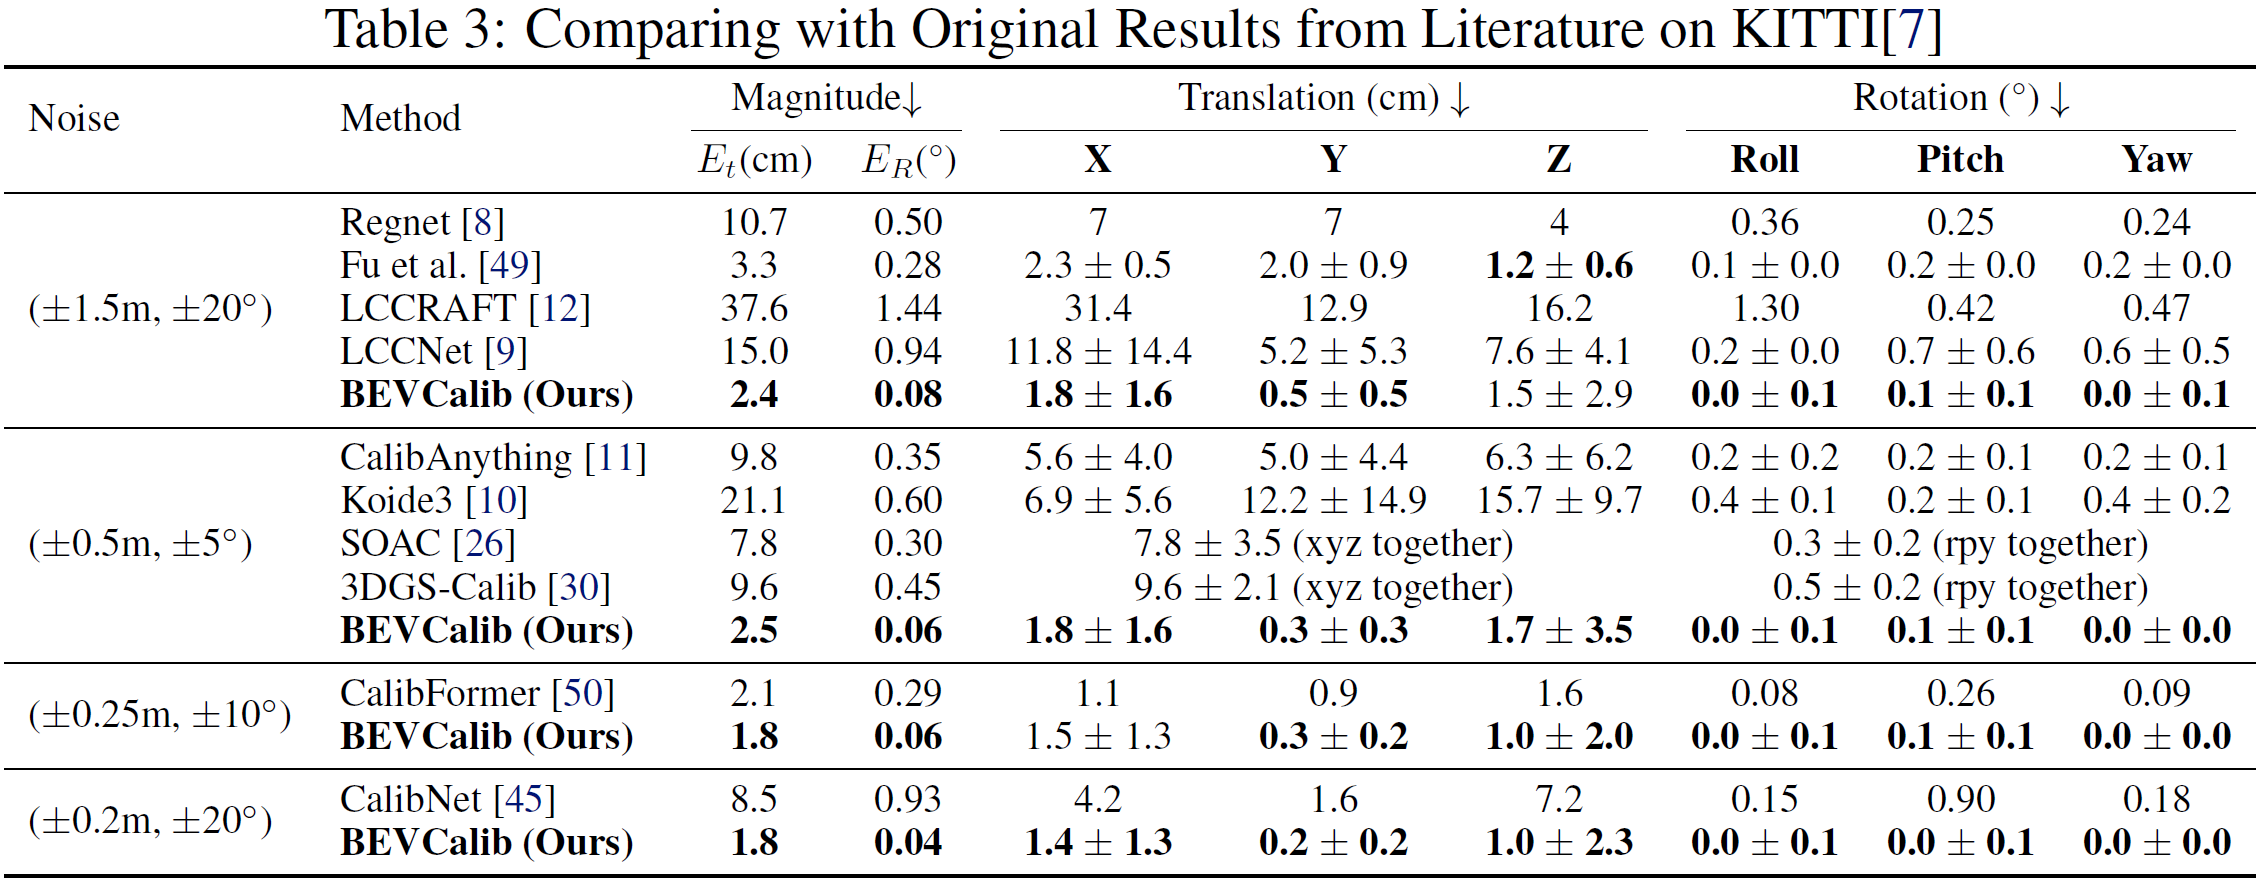
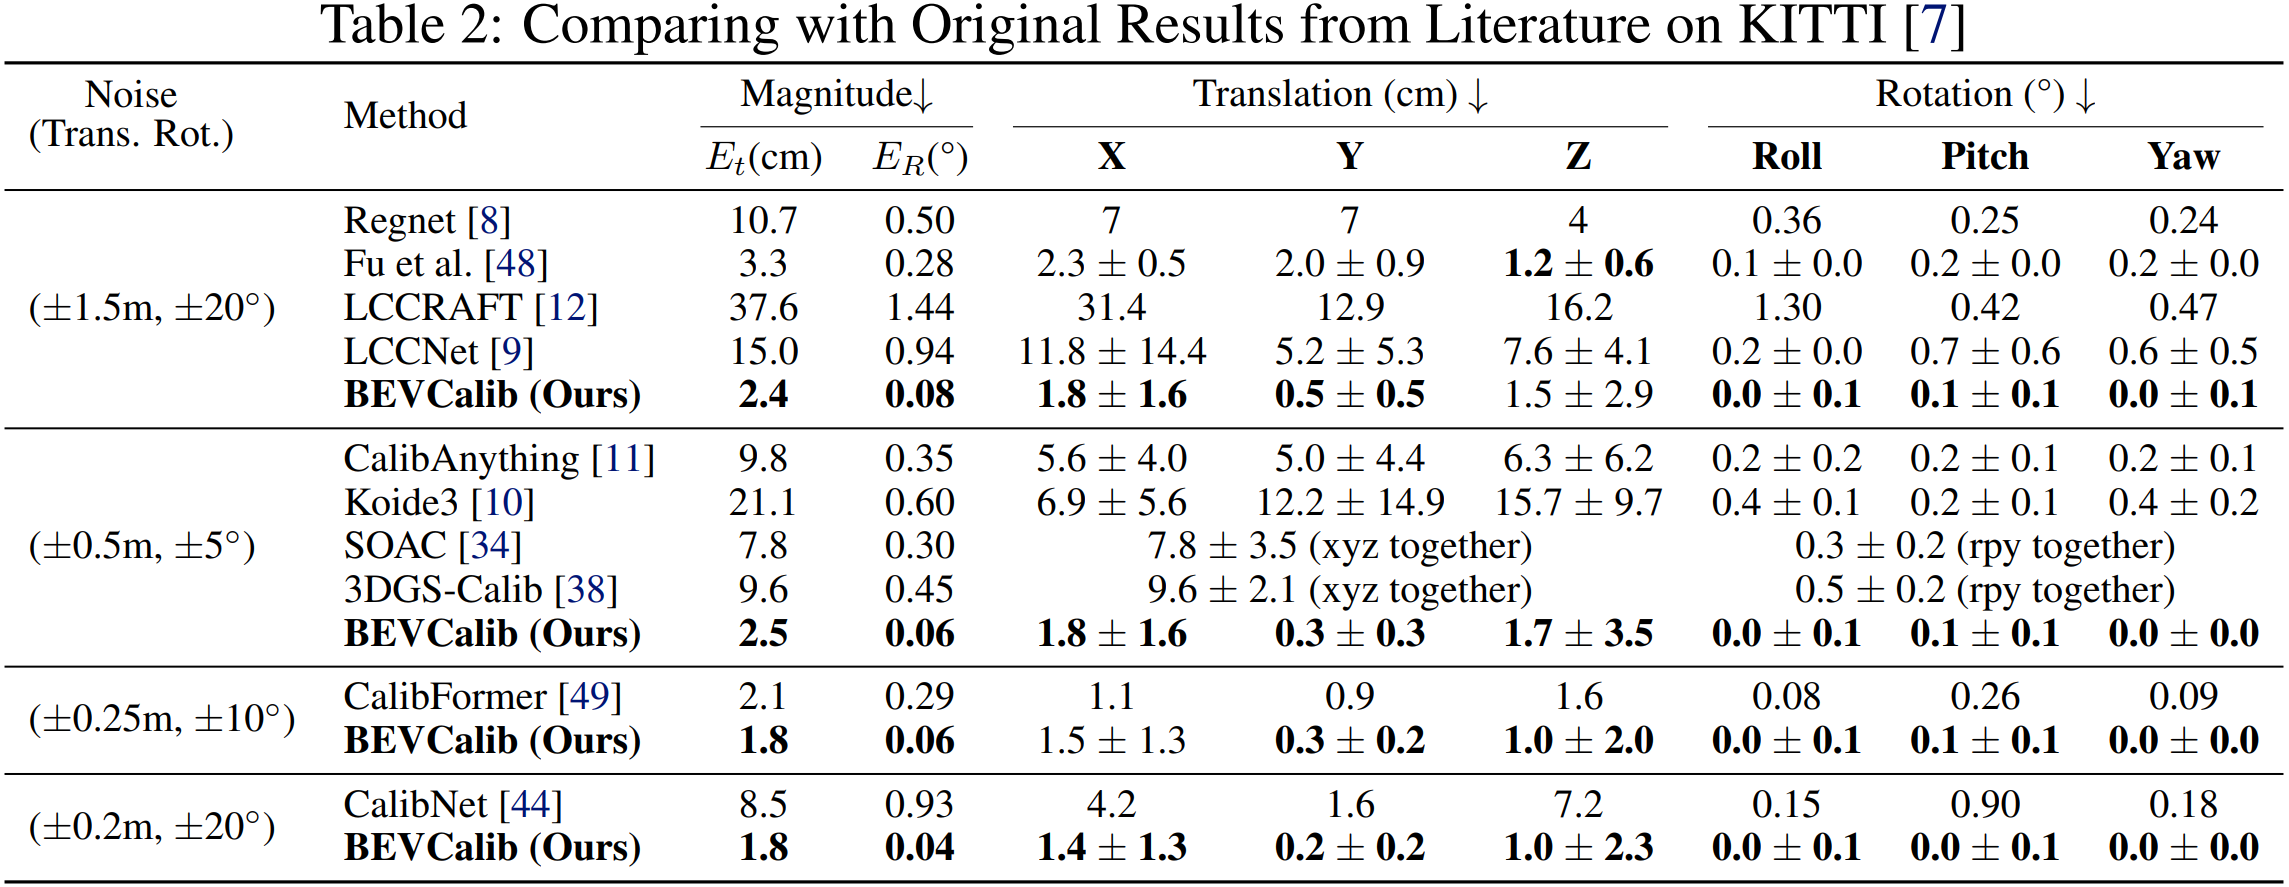
latest version sync with paper

diff --git a/index.html b/index.html
@@ -133,8 +133,8 @@
               termed <strong>BEVCALIB</strong>. To achieve this, we extract camera BEV features and LiDAR BEV features separately and fuse them into a shared BEV feature space. To fully 
               utilize the geometry information from the BEV feature, we introduce a novel feature selector to choose the most important feature in the transformation decoder, 
               which reduces memory consumption and enables efficient training. Extensive evaluations in various datasets demonstrate that BEVCALIB establishes a new state-of-the-art.
-              It improves the <strong><em>best open-source baseline</em></strong> by two orders of magnitude. Under various noise conditions, BEVCALIB also outperforms the 
-              <strong><em>best baseline in literature</em></strong> by an average of (47.08%, 82.32%) on KITTI dataset, and (78.17%, 68.29%) on Nuscenes dataset, in terms of (translation, rotation) respectively. 
+              Under various noise conditions, BEVCALIB outperforms the <strong><em>best baseline in literature</em></strong> by an average of (47.08%, 82.32%) on KITTI dataset, 
+              and (78.17%, 68.29%) on NuScenes dataset, in terms of (translation, rotation) respectively. In the open-source domain, it improves the <strong><em>best</em></strong> reproducible baseline by one order of magnitude.
             </p>
           </div>
         </div>
@@ -187,6 +187,32 @@
             <div class="column is-full-width">
                 <h2 class="title is-3">Experiments</h2>
 
+                <h3 class="title is-4">Comparasion with Original Results from Literature</h3>
+
+                <div class="content has-text-justified">
+                  <img src="static/images/kitti.png" />
+                  <img src="static/images/NuScenes.png" />
+                  <table width="100%" align="center" border="0" cellspacing="0" cellpadding="0">
+                    <tr>
+                      <p>
+                        Table 2 and Table 3 compares <strong>BEVCalib</strong> with original results reported in the literature. Since each of the existing model 
+                        was trained and evaluated using different noise settings, we group them into different clusters and 
+                        evaluate BEVCalib under the same noise settings for a fair comparison. On KITTI dataset,
+                        BEVCalib has only a few centimeter translation error, outperforming the best baselines by an average
+                        of 14.29% - 78.82%, and less than 0.1\(^\circ\) rotation error, outperforming the best baselines by an average of 71.43% - 95.70% under various noise conditions.
+                        On NuScenes, BEVCalib has slightly
+                        error but still outperforms the best baseline by 78.17% in translation, 68.29% in rotation. Notably, although BEVCalib is trained under the largest noise (\(\pm\)1.5m, \(\pm\)20\(^\circ\)), 
+                        it shows extremely robustness when evaluated on smaller noise, overcoming the noise sensitivity that cripples previous methods such as LCCNet. 
+                        In addition, BEVCalib demonstrates remarkable rotation prediction accuracy for all three angles (roll, pitch, yaw) with error below 0.2\(^\circ\), achieving a 
+                        near-perfect result that outperforms any previous methods.
+                      </p>
+                    </tr>
+                  </table>
+                  
+                </div>
+
+                <br>
+
                 <h3 class="title is-4">Evaluation Results with Open-Source Baselines</h3>
                 <img src="static/images/opensource_result.png" />
                 <div class="content has-text-justified">
@@ -194,35 +220,15 @@
                   <table width="100%" align="center" border="0" cellspacing="0" cellpadding="0">
                     <tr>
                       <p>
-                        Table 2 compares <strong>BEVCalib</strong> with the selected baselines on CalibDB, KITTI, and NuScenes. For this comparison, we train each model 500 epochs on each dataset. 
-                        When an initial guess is required, a random noise between \([-1.5m, 1.5m]\) and \([-20^\circ, 20^\circ]\) has been applied. Table 2 shows that on KITTI and NuScenes, 
-                        BEVCalib outperforms all the open-source baselines by two orders of magnitude, approaching near-zero error on most, if not all, samples. In terms of translation, CalibNet and Koide3 
-                        struggle with predicting the correct z-component while Regnet and CalibAnything struggle with all components. BEVCalib achieves significantly better translation and rotation accuracy.
-                        On our internal dataset CalibDB, the trend continues with the exception of CalibAnything slightly outperforming BEVCalib on predicting the correct yaw axis. Consequently, it seems 
-                        that learning the correct rotation is not an issue. Compared to KITTI and NuScenes, the error slightly increased for both translation and rotation. This can be attributed to the inherent 
-                        difficulty of heterogeneous extrinsic collected in CalibDB. 
+                        Table 4 compares <strong>BEVCalib</strong> with the selected baselines on KITTI, NuScenes, and CaslibDB. In our exhaustive effort searching for reproducible baselines, 
+                        we find that the open-source space in this LiDAR-camera calibration domain is rather scarce (very few checkpoints) and underperforming despite the abundant literature. 
+                        Hence, our open-source effort will significantly boost the performance of publicly availble calibration tools. Specifically, Table 4 shows that BEVCalib 
+                        outperforms the best open-source baselines by (92.75%, 89.22%) on KITTI dataset and by (92.69%, 93.62%) on NuScenes dataset, in terms of (translation, rotation), respectively.
+                        While BEVCalib approaches near-zero error on most, if not all, samples, CalibNet and Koide3 struggle with predicting the correct z-component while Regnet and CalibAnything 
+                        struggle with all components on KITTI and NuScenes datasets. Across the board, when an initial guess is required, a random noise between \([-1.5m, 1.5m]\) and \([-20^\circ, 20^\circ]\) has been applied.
                       </p>
                     </tr>
                   </table>
-                </div>
-
-                <br>
-                <h3 class="title is-4">Comparasion with Original Results from Literature</h3>
-
-                <div class="content has-text-justified">
-                  <img src="static/images/kitti.png" />
-                  <img src="static/images/nuscenes.png" />
-                  <table width="100%" align="center" border="0" cellspacing="0" cellpadding="0">
-                    <tr>
-                      <p>
-                        Table 3 and Table 4 compares <strong>BEVCalib</strong> with original results reported in the literature. Since each of the existing 
-                        models is trained and evaluated using different noise settings, BEVCalib is trained under (\(\pm\)1.5m, \(\pm\)20\(^\circ\)) while evaluated using different noise settings for 
-                        a fair comparison. While not reproducible, BEVCalib still outperforms the best baselines by <strong>47.08%</strong> in translation, <strong>82.32%</strong> 
-                        in rotation on KITTI, and by <strong>78.17%</strong> in translation, <strong>68.29%</strong> in rotation on Nuscenes datasets when averaged across all noise settings.
-                      </p>
-                    </tr>
-                  </table>
-                  
                 </div>
                 
                 <br>
@@ -246,6 +252,25 @@
                 </div>
 
                 <br>
+      </section>
+
+      <section class="section">
+        <div class="container is-max-desktop">
+          <div class="columns is-centered">
+            <div class="column is-full-width">
+              <h2 class="title is-3">Conclusion</h2>
+              <div class="content has-text-justified has-text-centered">
+                <p>
+                  In this paper, we introduce <strong>BEVCalib</strong>, the first LiDAR-camera extrinsic calibration model using BEV features. Geometry-guided BEV decoder can effectively and 
+                  efficiently capture scene geometry, enhancing calibration accuracy.  Results on KITTI, NuScenes, and our own indoor dataset with dynamic extrinsics illustrate 
+                  that our approach establishes a new state of the art in learning-based calibration methods. Under various noise conditions, BEVCalib outperforms the 
+                  best baseline in literature by an average of (47.08%, 82.32%) on KITTI dataset, and (78.17%, 68.29%) on NuScenes dataset, in terms of (translation, rotation) respectively. Also, 
+                  BEVCalib improves the best reproducible baseline by one order of magnitude, making an important contribution to the scarce open-source space in LiDAR-camera calibration.
+                </p>
+              </div>
+            </div>
+          </div>
+        </div>
       </section>
 
 
